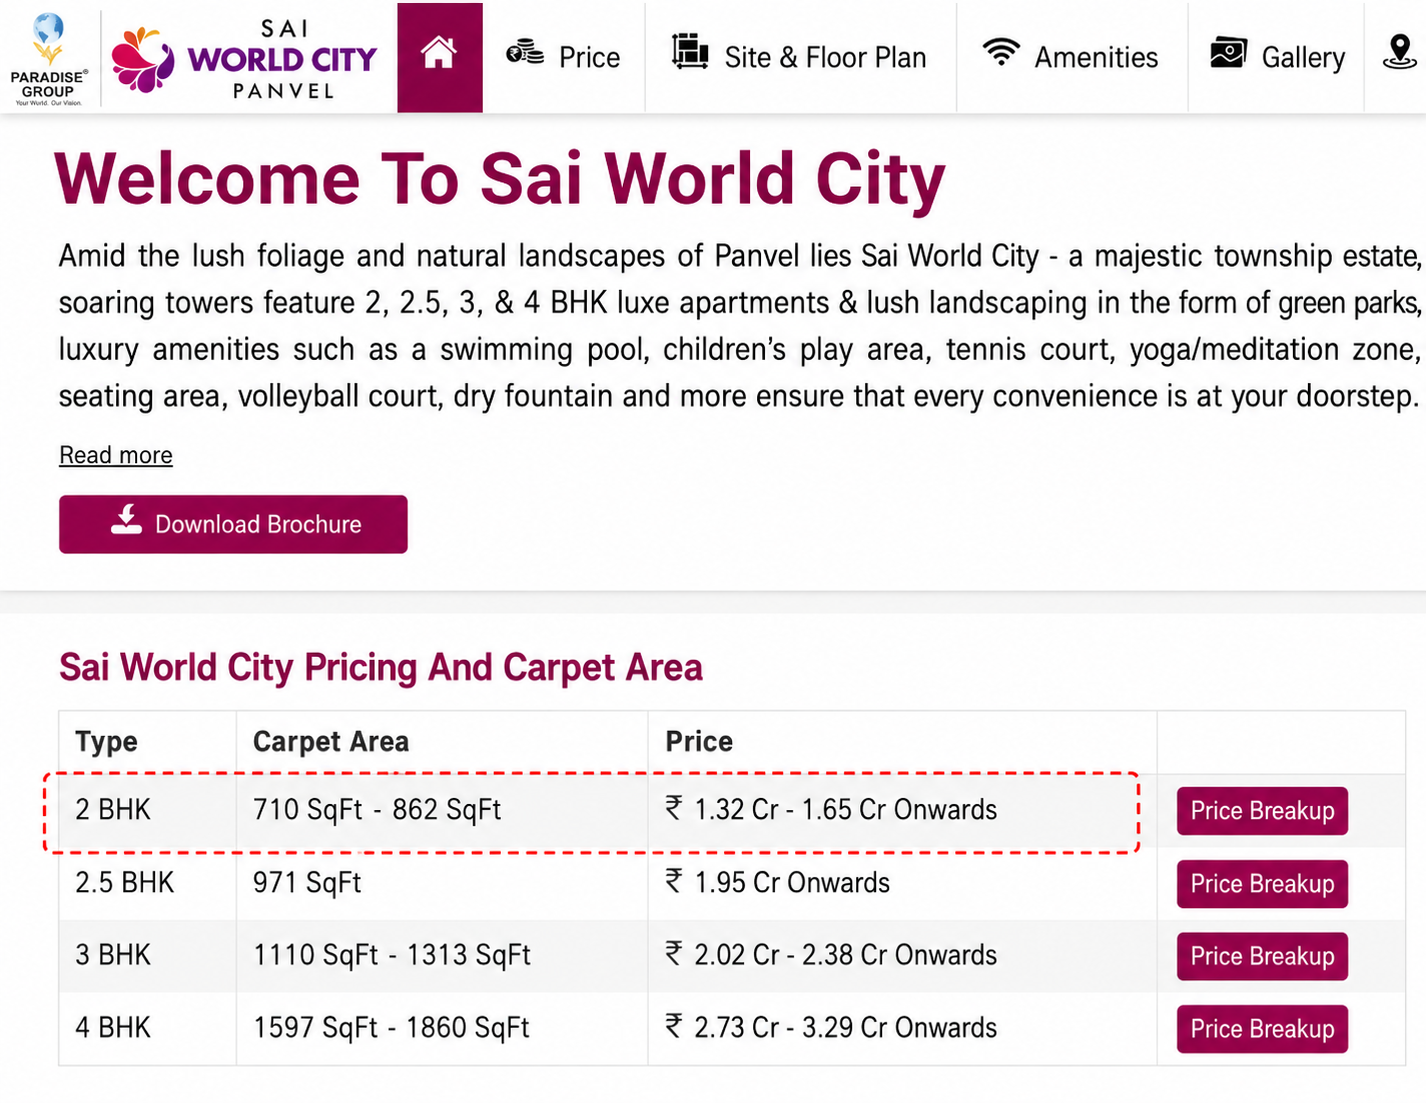
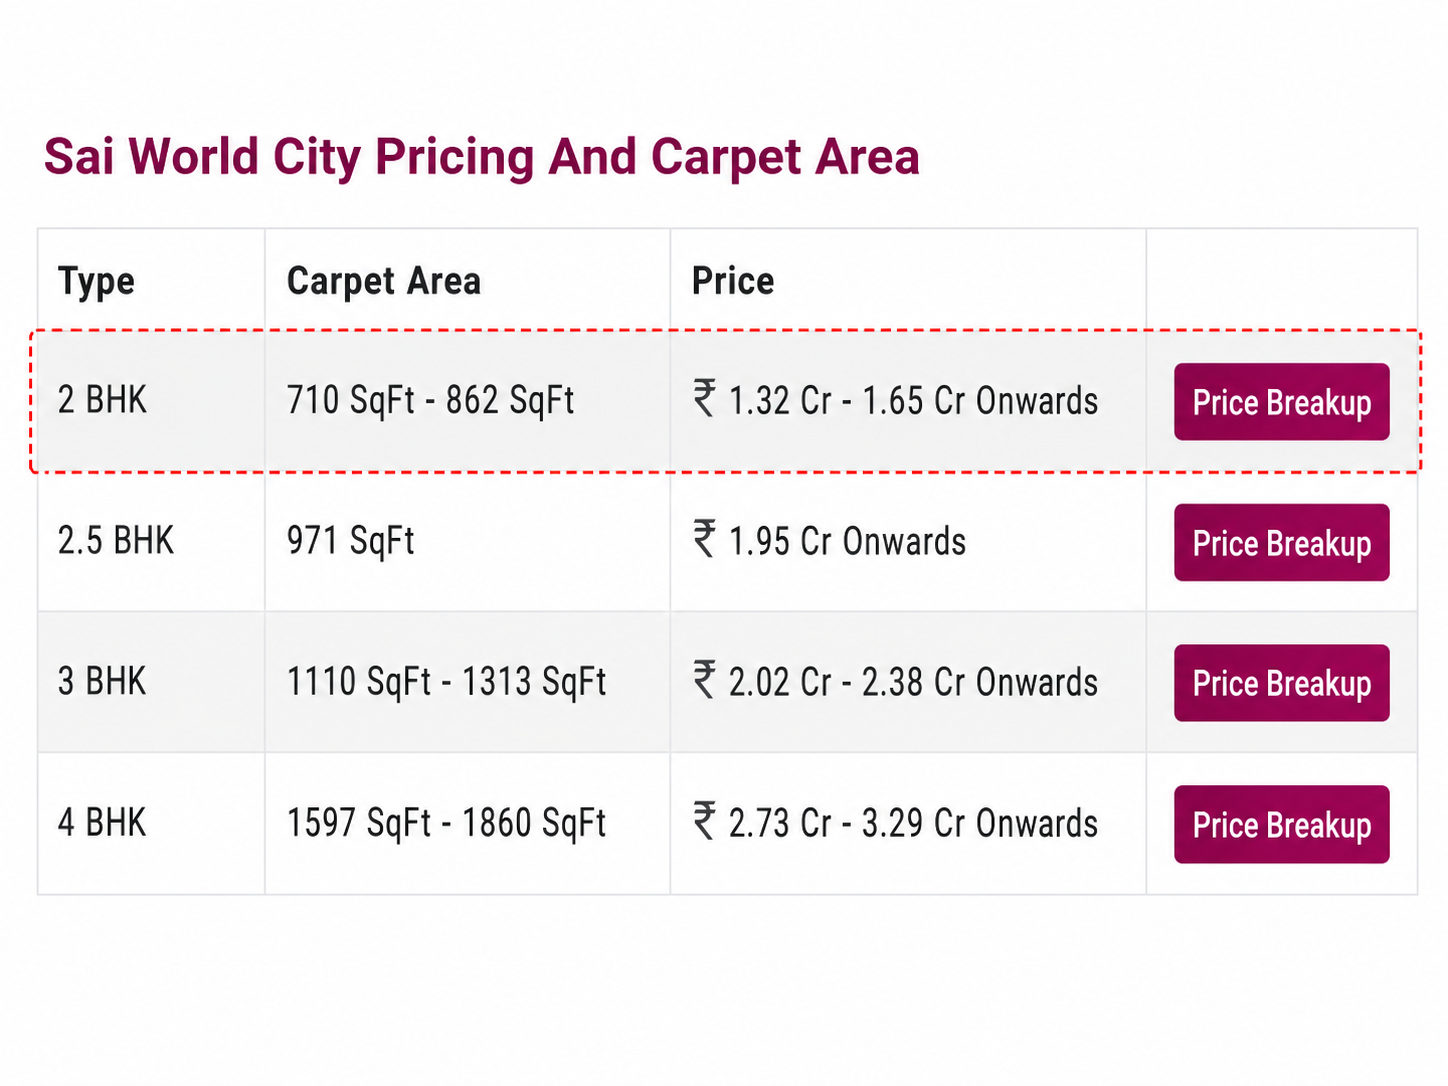
new added

diff --git a/src/data/locations.ts b/src/data/locations.ts
@@ -81,12 +81,12 @@ export const locations = [
       {
         type: "2 BHK",
         area: "878 - 931 sq.ft.",
-        price: "₹1.57 Cr+ - ₹1.66 Cr onwards",
+        price: "₹1.5 Cr+ - ₹1.66 Cr onwards",
       },
       {
         type: "3 BHK",
         area: "1153 - 1373 sq.ft.",
-        price: "₹2.04 Cr+ - ₹2.43 Cr onwards",
+        price: "₹2 Cr+ - ₹2.43 Cr onwards",
       },
     ],
     images: [
@@ -102,7 +102,7 @@ export const locations = [
       {
         type: "1 BHK",
         area: "459 sq.ft.",
-        price: "₹62.88 Lac onwards",
+        price: "₹62 Lac onwards",
       },
       {
         type: "2 BHK",
@@ -128,17 +128,17 @@ export const locations = [
       {
         type: "1 BHK",
         area: "332 - 365 sq.ft.",
-        price: "₹40.92 Lac+ - ₹44.93 Lac onwards",
+        price: "₹40 Lac+ - ₹44.93 Lac onwards",
       },
       {
         type: "2 BHK",
         area: "482 - 732 sq.ft.",
-        price: "₹50.32 Lac+ - ₹86.38 Lac onwards",
+        price: "₹50 Lac+ - ₹86.38 Lac onwards",
       },
       {
         type: "3 BHK",
         area: "950 sq.ft.",
-        price: "₹1.17 Cr+ - ₹1.50 Cr onwards",
+        price: "₹1.2 Cr+ - ₹1.50 Cr onwards",
       },
     ],
     images: [